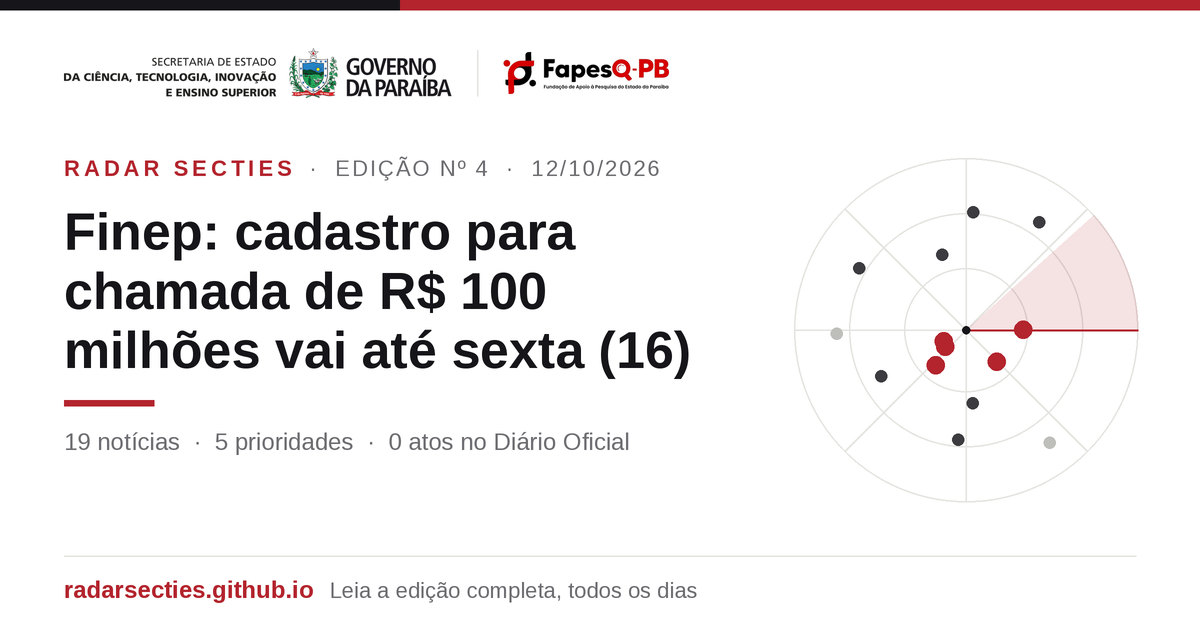
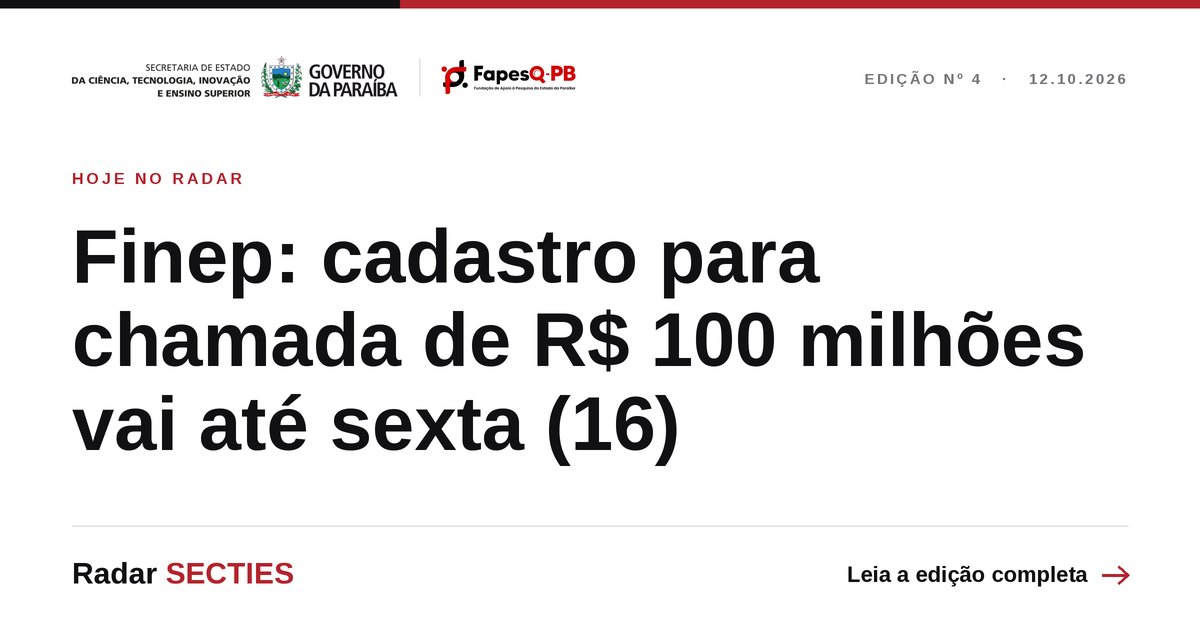
Add files via upload

diff --git a/ferramentas/modelo.html b/ferramentas/modelo.html
@@ -40,10 +40,16 @@ h1,h2,h3{text-wrap:balance;margin:0}
 .fis-area{color:var(--suave);letter-spacing:.08em}
 .fis-area::before{content:"· ";}
 .fis-frase{margin:2px 0 0;font-size:clamp(1.02rem,1.9vw,1.15rem);font-weight:700;line-height:1.38;color:var(--texto);text-wrap:pretty}
-.fis-acoes{display:flex;flex-wrap:wrap;align-items:center;gap:6px 18px;margin-top:6px;font-size:.86rem}
+.fis-acoes{display:flex;flex-wrap:wrap;align-items:center;gap:8px 16px;margin-top:10px;font-size:.86rem}
 .fis-link{all:unset;cursor:pointer;font-weight:700;color:var(--texto);border-bottom:1px solid var(--linha-2);padding-bottom:1px}
 .fis-link:hover{color:var(--vermelho);border-bottom-color:var(--vermelho)}
 .fis-link:focus-visible{outline:2px solid var(--vermelho);outline-offset:3px}
+.fis-btn{font:inherit;font-size:.84rem;font-weight:700;cursor:pointer;display:inline-flex;align-items:center;gap:8px;color:var(--vermelho);background:var(--vermelho-fundo);border:1px solid transparent;border-radius:999px;padding:7px 14px;transition:background .2s,color .2s,transform .15s}
+.fis-btn svg{width:15px;height:15px;transition:transform .6s cubic-bezier(.2,.7,.1,1)}
+.fis-btn:hover{background:var(--vermelho);color:#fff}
+.fis-btn:active{transform:scale(.97)}
+.fis-btn.gira svg{transform:rotate(360deg)}
+.fis-btn:focus-visible{outline:2px solid var(--vermelho);outline-offset:3px}
 .fis-formula{color:var(--suave);font-style:italic}
 .fis-porque{grid-column:2;margin:8px 0 0;font-size:.92rem;line-height:1.55;color:var(--texto-2);max-width:68ch}
 .fis-porque b{color:var(--texto)}
@@ -199,7 +205,7 @@ footer p{margin:0 0 6px;max-width:70ch}
       <p class="fis-frase" id="fisFrase" aria-live="polite"></p>
       <div class="fis-acoes">
         <button type="button" class="fis-link" id="fisPorqueBtn" aria-expanded="false" aria-controls="fisPorque">Por quê?</button>
-        <button type="button" class="fis-link" id="fisOutra">Outra curiosidade</button>
+        <button type="button" class="fis-btn" id="fisOutra"><svg viewBox="0 0 24 24" aria-hidden="true"><path fill="none" stroke="currentColor" stroke-width="2.2" stroke-linecap="round" stroke-linejoin="round" d="M20 12a8 8 0 1 1-2.3-5.7M20 4v5h-5"/></svg>Gerar outra curiosidade</button>
         <span class="fis-formula" id="fisFormula"></span>
       </div>
     </div>
@@ -441,6 +447,7 @@ document.documentElement.classList.add("js");
     $("fisOutra").addEventListener("click", () => {
       if (CURIOSIDADES.length < 2) return;
       idx = (idx + 1 + Math.floor(Math.random() * (CURIOSIDADES.length - 1))) % CURIOSIDADES.length;
+      const b = $("fisOutra"); b.classList.remove("gira"); void b.offsetWidth; b.classList.add("gira");
       mostra(CURIOSIDADES[idx], true);
     });
     const svg = $("atomoSvg");

diff --git a/index.html b/index.html
@@ -40,10 +40,16 @@ h1,h2,h3{text-wrap:balance;margin:0}
 .fis-area{color:var(--suave);letter-spacing:.08em}
 .fis-area::before{content:"· ";}
 .fis-frase{margin:2px 0 0;font-size:clamp(1.02rem,1.9vw,1.15rem);font-weight:700;line-height:1.38;color:var(--texto);text-wrap:pretty}
-.fis-acoes{display:flex;flex-wrap:wrap;align-items:center;gap:6px 18px;margin-top:6px;font-size:.86rem}
+.fis-acoes{display:flex;flex-wrap:wrap;align-items:center;gap:8px 16px;margin-top:10px;font-size:.86rem}
 .fis-link{all:unset;cursor:pointer;font-weight:700;color:var(--texto);border-bottom:1px solid var(--linha-2);padding-bottom:1px}
 .fis-link:hover{color:var(--vermelho);border-bottom-color:var(--vermelho)}
 .fis-link:focus-visible{outline:2px solid var(--vermelho);outline-offset:3px}
+.fis-btn{font:inherit;font-size:.84rem;font-weight:700;cursor:pointer;display:inline-flex;align-items:center;gap:8px;color:var(--vermelho);background:var(--vermelho-fundo);border:1px solid transparent;border-radius:999px;padding:7px 14px;transition:background .2s,color .2s,transform .15s}
+.fis-btn svg{width:15px;height:15px;transition:transform .6s cubic-bezier(.2,.7,.1,1)}
+.fis-btn:hover{background:var(--vermelho);color:#fff}
+.fis-btn:active{transform:scale(.97)}
+.fis-btn.gira svg{transform:rotate(360deg)}
+.fis-btn:focus-visible{outline:2px solid var(--vermelho);outline-offset:3px}
 .fis-formula{color:var(--suave);font-style:italic}
 .fis-porque{grid-column:2;margin:8px 0 0;font-size:.92rem;line-height:1.55;color:var(--texto-2);max-width:68ch}
 .fis-porque b{color:var(--texto)}
@@ -199,7 +205,7 @@ footer p{margin:0 0 6px;max-width:70ch}
       <p class="fis-frase" id="fisFrase" aria-live="polite"></p>
       <div class="fis-acoes">
         <button type="button" class="fis-link" id="fisPorqueBtn" aria-expanded="false" aria-controls="fisPorque">Por quê?</button>
-        <button type="button" class="fis-link" id="fisOutra">Outra curiosidade</button>
+        <button type="button" class="fis-btn" id="fisOutra"><svg viewBox="0 0 24 24" aria-hidden="true"><path fill="none" stroke="currentColor" stroke-width="2.2" stroke-linecap="round" stroke-linejoin="round" d="M20 12a8 8 0 1 1-2.3-5.7M20 4v5h-5"/></svg>Gerar outra curiosidade</button>
         <span class="fis-formula" id="fisFormula"></span>
       </div>
     </div>
@@ -441,6 +447,7 @@ document.documentElement.classList.add("js");
     $("fisOutra").addEventListener("click", () => {
       if (CURIOSIDADES.length < 2) return;
       idx = (idx + 1 + Math.floor(Math.random() * (CURIOSIDADES.length - 1))) % CURIOSIDADES.length;
+      const b = $("fisOutra"); b.classList.remove("gira"); void b.offsetWidth; b.classList.add("gira");
       mostra(CURIOSIDADES[idx], true);
     });
     const svg = $("atomoSvg");

diff --git a/ferramentas/montar.py b/ferramentas/montar.py
@@ -89,72 +89,55 @@ def texto_whatsapp(ed):
 
 
 def gerar_capa(ed, destino):
-    """Imagem 1200x630 da prévia do link: fundo branco, marcas, manchete do dia e o radar como símbolo."""
+    """Capa 1200x630 da prévia do link: composição editorial limpa.
+    Branco, muito respiro, a manchete do dia como protagonista e um único acento vermelho."""
     try:
         from PIL import Image, ImageDraw, ImageFont
     except Exception as e:
         print("Pillow indisponível; capa.png mantida:", e)
         return False
-    import math
     F = lambda w, s: ImageFont.truetype(os.path.join(AQUI, "fontes", f"Arimo-{w}.ttf"), s)
-    W, H, K = 1200, 630, 2  # desenha em 2x e reduz, para bordas suaves
-    PRETO, VERM, CINZA, LINHA = (22, 22, 26), (179, 36, 45), (110, 110, 114), (228, 228, 224)
-    img = Image.new("RGB", (W * K, H * K), (255, 255, 255))
-    d = ImageDraw.Draw(img)
+    W, H, K = 1200, 630, 2
     k = lambda v: int(round(v * K))
-
-    # filete da bandeira (1/3 preto, 2/3 vermelho)
-    d.rectangle([0, 0, k(W / 3), k(10)], fill=PRETO)
-    d.rectangle([k(W / 3), 0, k(W), k(10)], fill=VERM)
-
-    # radar à direita (símbolo do Radar SECTIES)
-    cx, cy, R = 966, 330, 172
-    for f in (1.0, .68, .36):
-        d.ellipse([k(cx - R * f), k(cy - R * f), k(cx + R * f), k(cy + R * f)], outline=LINHA, width=k(1.5))
-    for ang in range(0, 180, 45):
-        a = math.radians(ang)
-        d.line([(k(cx - R * math.cos(a)), k(cy - R * math.sin(a))), (k(cx + R * math.cos(a)), k(cy + R * math.sin(a)))], fill=LINHA, width=k(1.5))
-    cunha = Image.new("RGBA", img.size, (0, 0, 0, 0))
-    ImageDraw.Draw(cunha).pieslice([k(cx - R), k(cy - R), k(cx + R), k(cy + R)], -42, 0, fill=VERM + (34,))
-    img.paste(cunha, (0, 0), cunha)
+    PRETO, VERM, CINZA, LINHA, BRANCO = (17, 17, 20), (179, 36, 45), (118, 118, 122), (226, 226, 222), (255, 255, 255)
+    img = Image.new("RGB", (W * K, H * K), BRANCO)
     d = ImageDraw.Draw(img)
-    d.line([(k(cx), k(cy)), (k(cx + R), k(cy))], fill=VERM, width=k(2))
-    its = ed.get("itens") or []
-    rnd = __import__("random").Random(ed.get("data"))
-    for i in its[:14]:
-        alta = i.get("relevancia") == "alta"
-        r = R * (rnd.uniform(.12, .36) if alta else rnd.uniform(.42, .92))
-        a = rnd.uniform(0, 2 * math.pi)
-        x, y = cx + r * math.cos(a), cy + r * math.sin(a)
-        rr = 9 if alta else 6
-        cor = VERM if alta else ((60, 60, 64) if i.get("relevancia") == "media" else (190, 190, 186))
-        d.ellipse([k(x - rr), k(y - rr), k(x + rr), k(y + rr)], fill=cor)
-    d.ellipse([k(cx - 4), k(cy - 4), k(cx + 4), k(cy + 4)], fill=PRETO)
+    dt = datetime.date.fromisoformat(ed["data"])
+    M = 72  # margem
 
-    # marcas: SECTIES | FAPESQ
-    x0, y0 = 64, 48
-    sec = Image.open(os.path.join(AQUI, "marca-secties.png")).convert("RGBA")
-    sec = sec.resize((k(sec.width * 50 / sec.height), k(50)), Image.LANCZOS)
-    img.paste(sec, (k(x0), k(y0)), sec)
-    fap = Image.open(os.path.join(RAIZ, "fapesq.png")).convert("RGBA")
-    fap = fap.resize((k(fap.width * 42 / fap.height), k(42)), Image.LANCZOS)
-    xd = x0 + sec.width / K + 26
-    d.line([(k(xd), k(y0 + 2)), (k(xd), k(y0 + 48))], fill=LINHA, width=k(1.5))
-    img.paste(fap, (k(xd + 26), k(y0 + 4)), fap)
-
-    def espacado(x, y, txt, fonte, cor, esp):
-        for ch in txt:
+    def texto(x, y, t, fonte, cor, esp=0):
+        if not esp:
+            d.text((k(x), k(y)), t, font=fonte, fill=cor)
+            return x + d.textlength(t, font=fonte) / K
+        for ch in t:
             d.text((k(x), k(y)), ch, font=fonte, fill=cor)
             x += d.textlength(ch, font=fonte) / K + esp
         return x
 
-    tx, larg = 64, 660
-    xe = espacado(tx, 156, "RADAR SECTIES", F(700, k(22)), VERM, 4)
-    data_br = datetime.date.fromisoformat(ed["data"]).strftime("%d/%m/%Y")
-    espacado(xe + 14, 156, "·  EDIÇÃO Nº " + str(ed.get("numero", "")) + "  ·  " + data_br, F(400, k(22)), CINZA, 2)
+    # filete da bandeira
+    d.rectangle([0, 0, k(W / 3), k(8)], fill=PRETO)
+    d.rectangle([k(W / 3), 0, k(W), k(8)], fill=VERM)
 
-    manchete = ed.get("destaque") or "Clipping diário de ciência, tecnologia, inovação e ensino superior"
-    for tam in (64, 60, 56, 52, 48, 44):
+    # marcas
+    sec = Image.open(os.path.join(AQUI, "marca-secties.png")).convert("RGBA")
+    sec = sec.resize((k(sec.width * 42 / sec.height), k(42)), Image.LANCZOS)
+    img.paste(sec, (k(M), k(56)), sec)
+    fap = Image.open(os.path.join(RAIZ, "fapesq.png")).convert("RGBA")
+    fap = fap.resize((k(fap.width * 34 / fap.height), k(34)), Image.LANCZOS)
+    xd = M + sec.width / K + 22
+    d.line([(k(xd), k(58)), (k(xd), k(96))], fill=LINHA, width=k(1.5))
+    img.paste(fap, (k(xd + 22), k(60)), fap)
+
+    # edição e data, discretas, à direita
+    f_ed = F(700, k(15))
+    rot = "EDIÇÃO Nº " + str(ed.get("numero", "")) + "   ·   " + dt.strftime("%d.%m.%Y")
+    larg_rot = sum(d.textlength(c, font=f_ed) / K + 2.4 for c in rot)
+    texto(W - M - larg_rot, 70, rot, f_ed, CINZA, 2.4)
+
+    # manchete: a protagonista
+    manchete = ed.get("destaque") or "Ciência, tecnologia, inovação e ensino superior na Paraíba"
+    larg = W - 2 * M
+    for tam in (76, 72, 68, 64, 60, 56, 52):
         fm = F(700, k(tam))
         linhas, atual = [], ""
         for pal in manchete.split():
@@ -167,21 +150,28 @@ def gerar_capa(ed, destino):
         linhas.append(atual)
         if len(linhas) <= 3:
             break
-    y = 202
+    passo = tam * 1.1
+    altura = passo * len(linhas)
+    y = 170 + (310 - altura) / 2 + 14
+    texto(M, y - 44, "HOJE NO RADAR", F(700, k(16)), VERM, 3)
     for ln in linhas:
-        d.text((k(tx), k(y)), ln, font=fm, fill=PRETO)
-        y += tam * 1.14
-    y += 20
-    d.rectangle([k(tx), k(y), k(tx + 90), k(y + 6)], fill=VERM)
-    y += 28
-    altas = sum(1 for i in its if i.get("relevancia") == "alta")
-    atos = len((ed.get("doe") or {}).get("atos") or [])
-    d.text((k(tx), k(y)), f"{len(its)} notícias  ·  {altas} prioridades  ·  {atos} {'ato' if atos == 1 else 'atos'} no Diário Oficial", font=F(400, k(24)), fill=CINZA)
+        texto(M, y, ln, fm, PRETO)
+        y += passo
 
-    # rodapé leve, sem faixa
-    d.line([(k(tx), k(H - 74)), (k(W - 64), k(H - 74))], fill=LINHA, width=k(1.5))
-    xs = espacado(tx, H - 54, "radarsecties.github.io", F(700, k(24)), VERM, 0)
-    d.text((k(xs + 16), k(H - 52)), "Leia a edição completa, todos os dias", font=F(400, k(22)), fill=CINZA)
+    # rodapé: assinatura e chamada
+    yR = H - 104
+    d.line([(k(M), k(yR)), (k(W - M), k(yR))], fill=LINHA, width=k(1.5))
+    yT = yR + 30
+    f_m = F(700, k(30))
+    x = texto(M, yT, "Radar ", f_m, PRETO)
+    texto(x, yT, "SECTIES", f_m, VERM)
+    f_c = F(700, k(22))
+    cham = "Leia a edição completa"
+    xc = W - M - 40 - d.textlength(cham, font=f_c) / K
+    texto(xc, yT + 6, cham, f_c, PRETO)
+    ax, ay = W - M - 26, yT + 19
+    d.line([(k(ax), k(ay)), (k(ax + 26), k(ay))], fill=VERM, width=k(3))
+    d.line([(k(ax + 16), k(ay - 9)), (k(ax + 26), k(ay)), (k(ax + 16), k(ay + 9))], fill=VERM, width=k(3), joint="curve")
 
     img = img.resize((W, H), Image.LANCZOS)
     img.save(destino, optimize=True)
